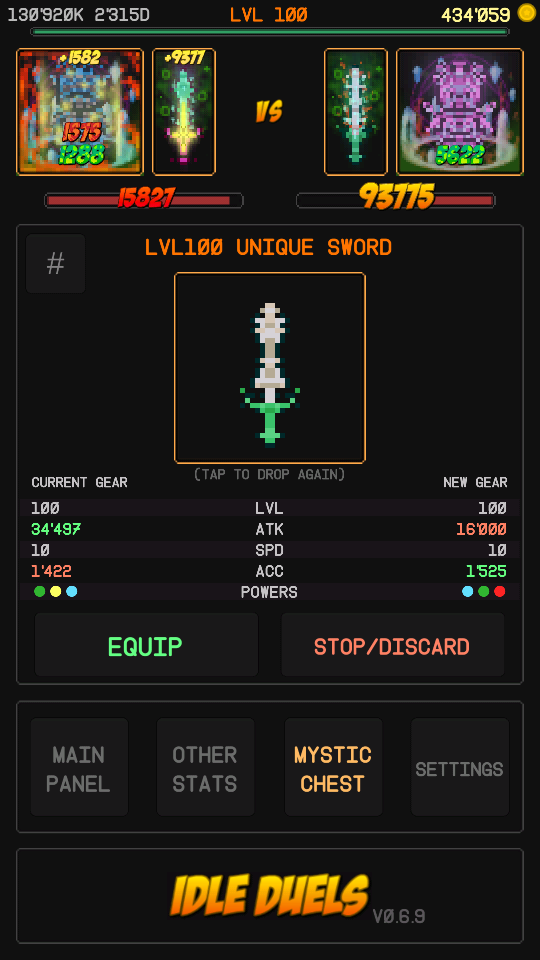
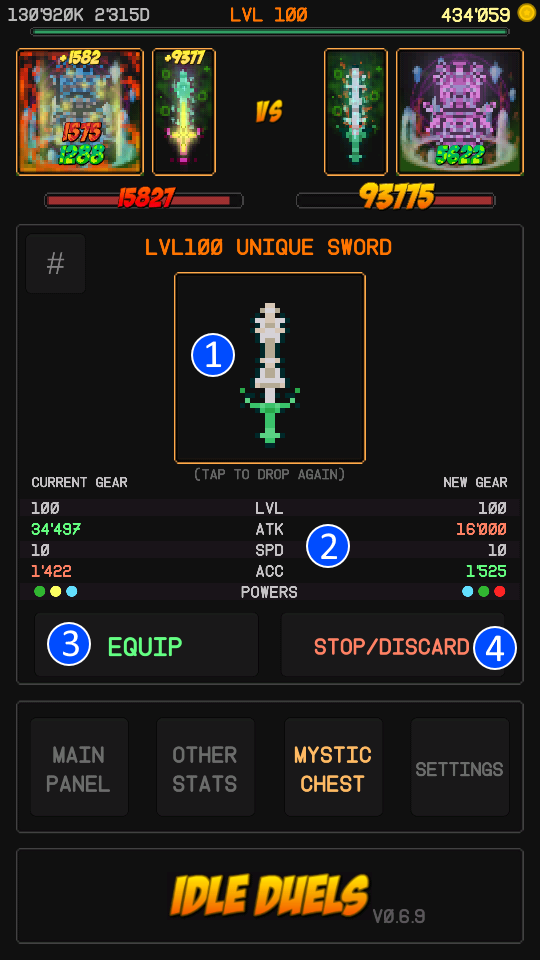
contact infos

diff --git a/games/idleduels/manual/index.html b/games/idleduels/manual/index.html
@@ -74,6 +74,10 @@
 <br>
 <div class="download">The Gear Drop Panel</div>
 <img src="./imgs/img_02.png" class="tutorialScreen">
+<p><small>1)</small> The item you just dropped, you can tap on it to start opening chests again!</p>
+<p><small>2)</small> Here you can compare your equipped gear's stats (on the left) with the ones of the item you just dropped.</p>
+<p><small>3)</small> The equip button: equip the item you just dropped, the old one will be destroyed.</p>
+<p><small>4)</small> If you are still opening chests this button will stop the loop.<br>Else tapping this button will close the panel, destroying the dropped item.</p>
 
 <br>
 <div class="download">The Settings Panel</div>
@@ -113,7 +117,7 @@ The Power Gems have a certain effect depending if you find them on a sword or an
 
 <br>
 <div class="download">Any more questions?</div>
-
+<p>Feel free to contact me @ <a href="mailto:ciaccodavide+idleduels@gmail.com">ciaccodavide+idleduels@gmail.com</a></p>
 <br>
 <br>
 <br>

diff --git a/games/idleduels/manual/css/gamepage.css b/games/idleduels/manual/css/gamepage.css
@@ -80,7 +80,11 @@ h2{
 
 a{
 	text-decoration:none;
-color:#888;}
+color:#f83;}
+a:hover{
+	text-decoration:underline;
+color:#3f8;}
+}
 .links{
 	margin:10px;
 	float:right;
